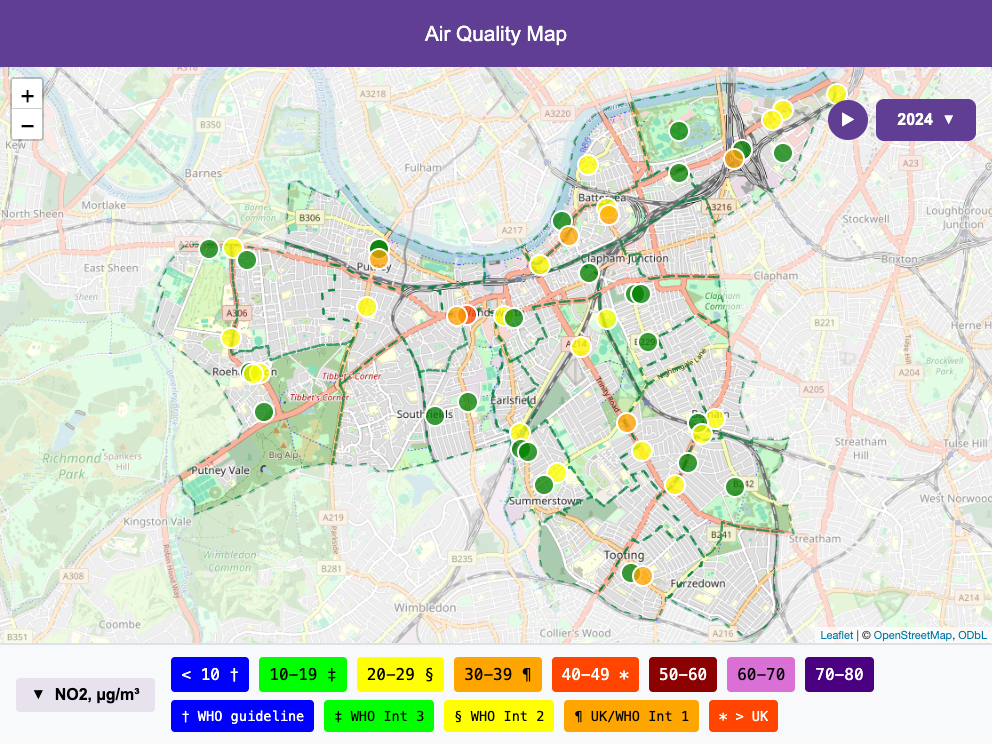
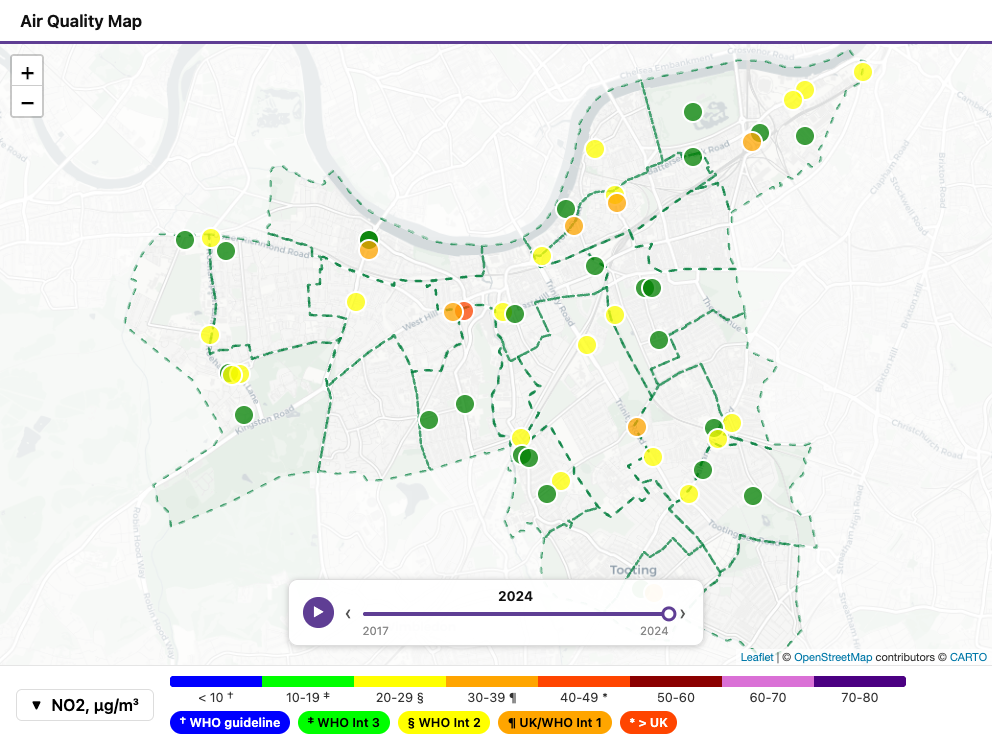
Apply approved P8-P15 to both pages; Get started builds to a full animation; boroughs stays required (F1)

diff --git a/dev/260709_page_template_review_v3.md b/dev/260709_page_template_review_v3.md
@@ -3,8 +3,11 @@
 **Date:** 2026-07-09 · **Source:** user's sub-edited Get started page
 (iCloud dev/pr31_manual_review/quickmap_v3.Rmd) compared against the
 original (vignettes/quickmap.Rmd on feature/manual-phase1-v2).
-**Status:** inferred principles P8–P15 below, awaiting user approval;
-no pages redrafted yet. Extends P1–P6 (approved, v1 doc) and the codified
+**Status:** P8–P15 APPROVED (user, 2026-07-10) and applied to both pages
+in the same change. F1 decided: `boroughs` STAYS REQUIRED (user,
+2026-07-10) — documented as required; no item-9 API change. Also per
+user: the Get started page now builds from the most basic map up to a
+sophisticated 108-step animation (new §6 + figure). Extends P1–P6 (approved, v1 doc) and the codified
 P3′–P7 (v2 doc, also awaiting approval).
 
 The sub-edit used three marks — `[[fluff]]`, `{{will date}}`,

diff --git a/dev/260707_manual_prospectus_v1.md b/dev/260707_manual_prospectus_v1.md
@@ -101,6 +101,14 @@ wherever data enters the picture:
 
 ## 4. Page template (every feature chapter)
 
+**Revised again 2026-07-10 (user-approved):** principles P3′–P7
+(dev/260708_page_template_review_v2.md; P7 bundled-data deferred to
+phase 2) and P8–P15 (dev/260709_page_template_review_v3.md — inline
+comments on every code line, no product pitch, no rotting statements,
+necessity ordering, goal-named headings, motivate-then-show, input shown
+as a table, one vocabulary: "symbols") now govern every page alongside
+P1–P6. `boroughs` stays a required argument (user decision 2026-07-10).
+
 **Revised 2026-07-08 (user-approved):** the template is governed by six
 normative principles P1–P6 in dev/260708_page_template_review_v1.md —
 key information first with zero page-meta-text; the first example is part
